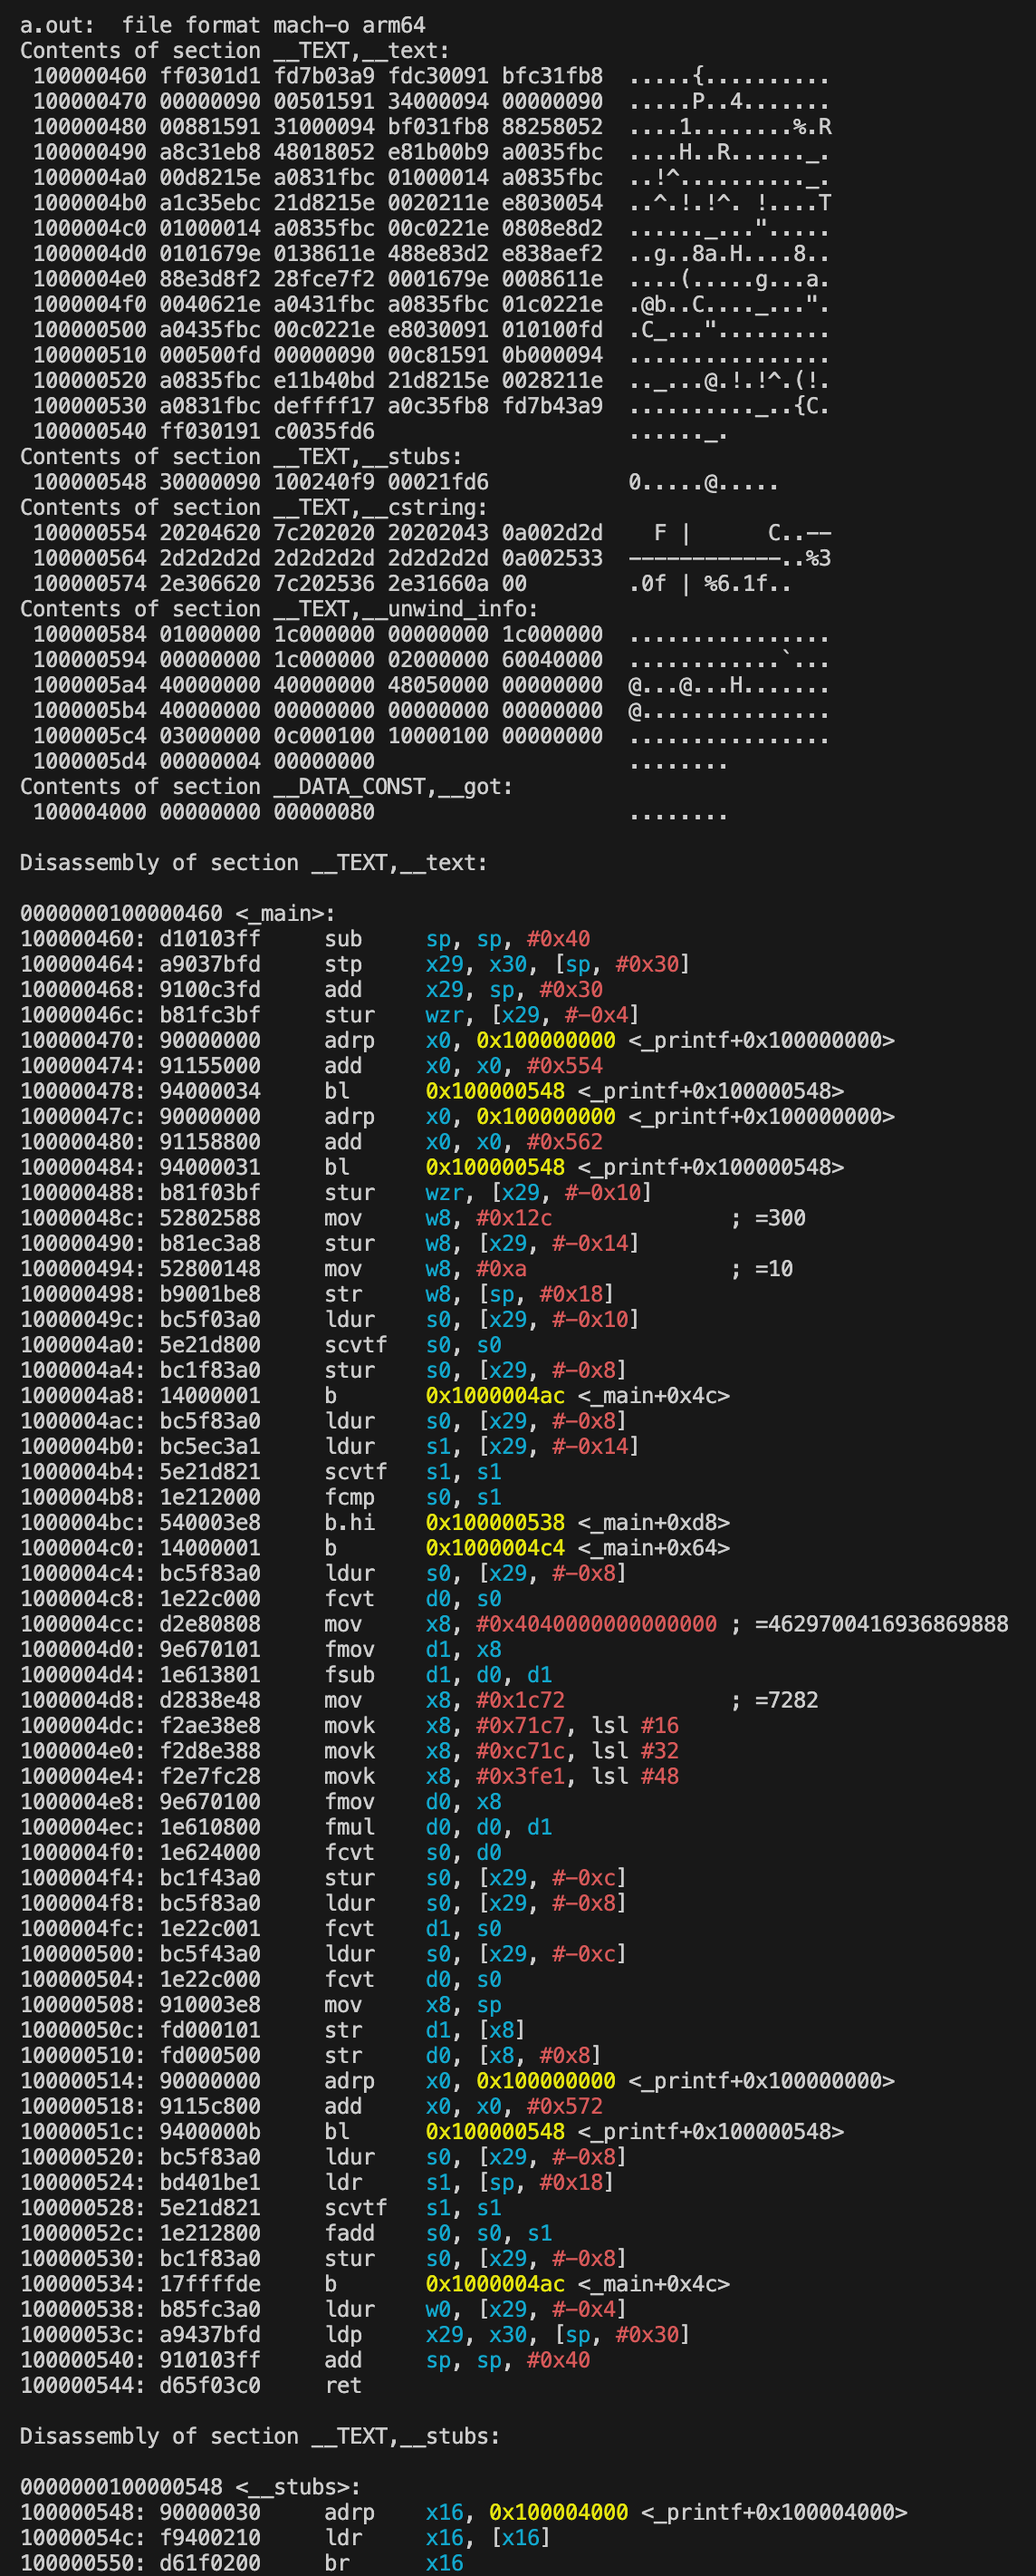
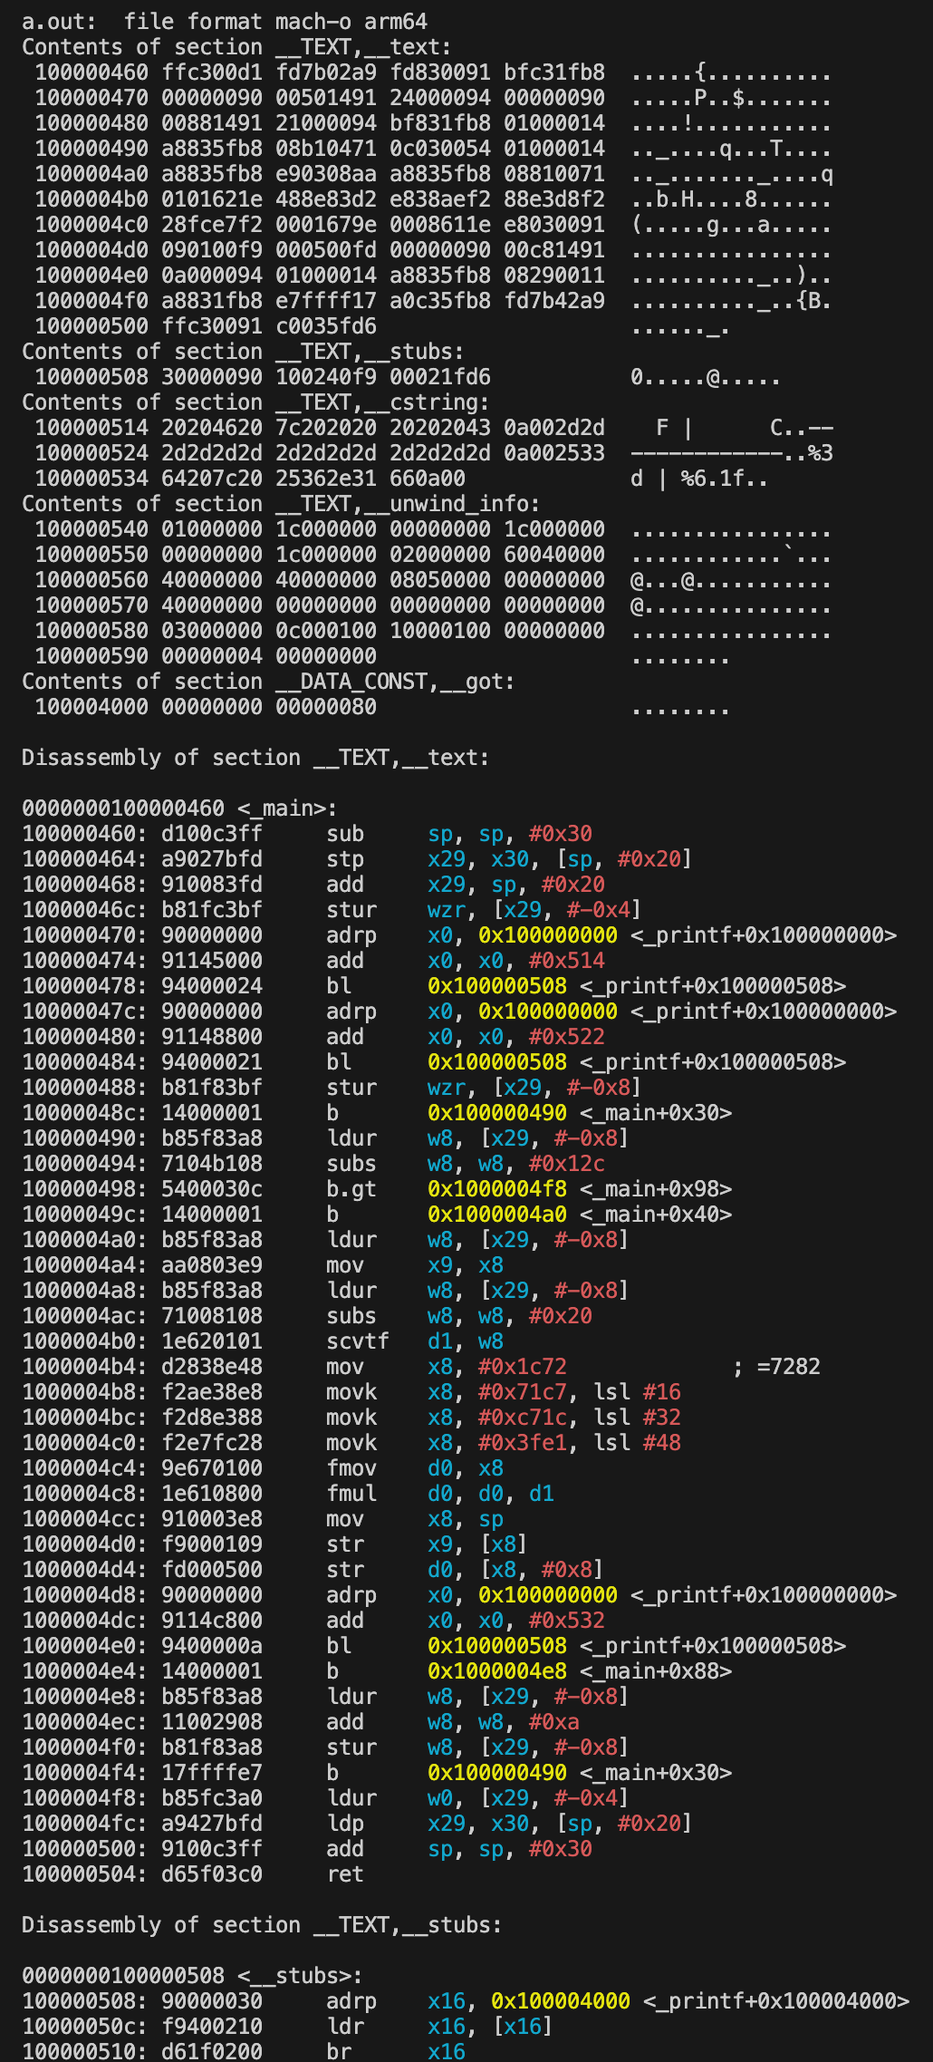
Use for-loop in fahrenheit_to_celsius.c; discuss objdump diff in readme

Changed region(s): [[0.0, 0.0, 0.9631, 0.9987], [0.8699, 0.0624, 0.901, 0.0936], [0.8388, 0.1248, 0.8699, 0.156]]

diff --git a/src/chapter_1/fahrenheit_to_celsius.c b/src/chapter_1/fahrenheit_to_celsius.c
@@ -3,18 +3,7 @@
 int main() {
   printf("  F |      C\n");
   printf("--------------\n");
-
-  float fahr, celsius;
-  int lower, upper, step;
-
-  lower = 0;
-  upper = 300;
-  step = 10;
-
-  fahr = lower;
-  while (fahr <= upper) {
-    celsius = (5.0 / 9.0) * (fahr - 32.0);
-    printf("%3.0f | %6.1f\n", fahr, celsius);
-    fahr = fahr + step;
+  for (int f = 0; f <= 300; f += 10) {
+    printf("%3d | %6.1f\n", f, (5.0 / 9.0) * (f - 32));
   }
 }

diff --git a/README.md b/README.md
@@ -13,7 +13,11 @@ cc src/chapter_1/fahrenheit_to_celsius.c && ./a.out
 To view the assembly from the C code:
 
 ```
-objdump -s -d
+objdump -s -d > src/chapter_1/fahrenheit_to_celsius.objdump
 ```
 
-<img src="assembly.png" width="66%">
+Idea: On save, build run objdump and compare the diff. We can use VS Code's git panel:
+
+<img src="c-diff.png">
+
+<img src="objdump-diff.png">
